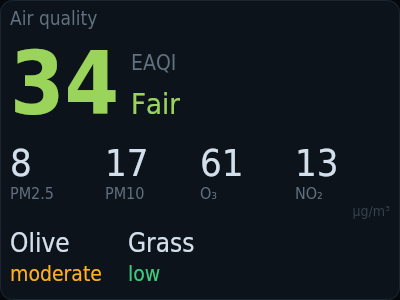
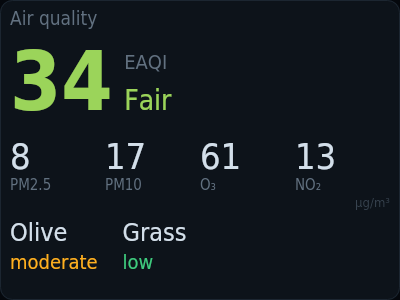
fix(airquality): the stacked layout fits its tile
It was scaled as if its content were 200 units tall (290 with pollen),
but takes ~210 (~305): on a short tile µg/m³ hung 3-5 px below. Scaled to
what it really takes. Found by kiosko plugins check.

diff --git a/src/airquality.ts b/src/airquality.ts
@@ -183,9 +183,11 @@ export const airquality = defineWidget({
     }
 
     // Stacked: everything scales from one unit (reference layout 368 × 290).
-    const k1 = Math.min(box.w / 368, box.h / 290);
+    // In units of k the content is ~305 tall with the pollen row and ~210 without
+    // (index, gases, their names and µg/m³ under them): scale to that, or it hangs out of the box.
+    const k1 = Math.min(box.w / 368, box.h / 305);
     const withPollen = options.showPollen && k1 >= 0.6;
-    const k = clamp(withPollen ? k1 : Math.min(box.w / 368, box.h / 200), 0.35, 1.6);
+    const k = clamp(withPollen ? k1 : Math.min(box.w / 368, box.h / 210), 0.35, 1.6);
     const big = Math.round(100 * k);
     const top = box.y + big * 0.86;
     const w = kit.drawTracked(g, String(data.aqi), box.x, top, { size: big, family: fonts.sansBold, color: col });
